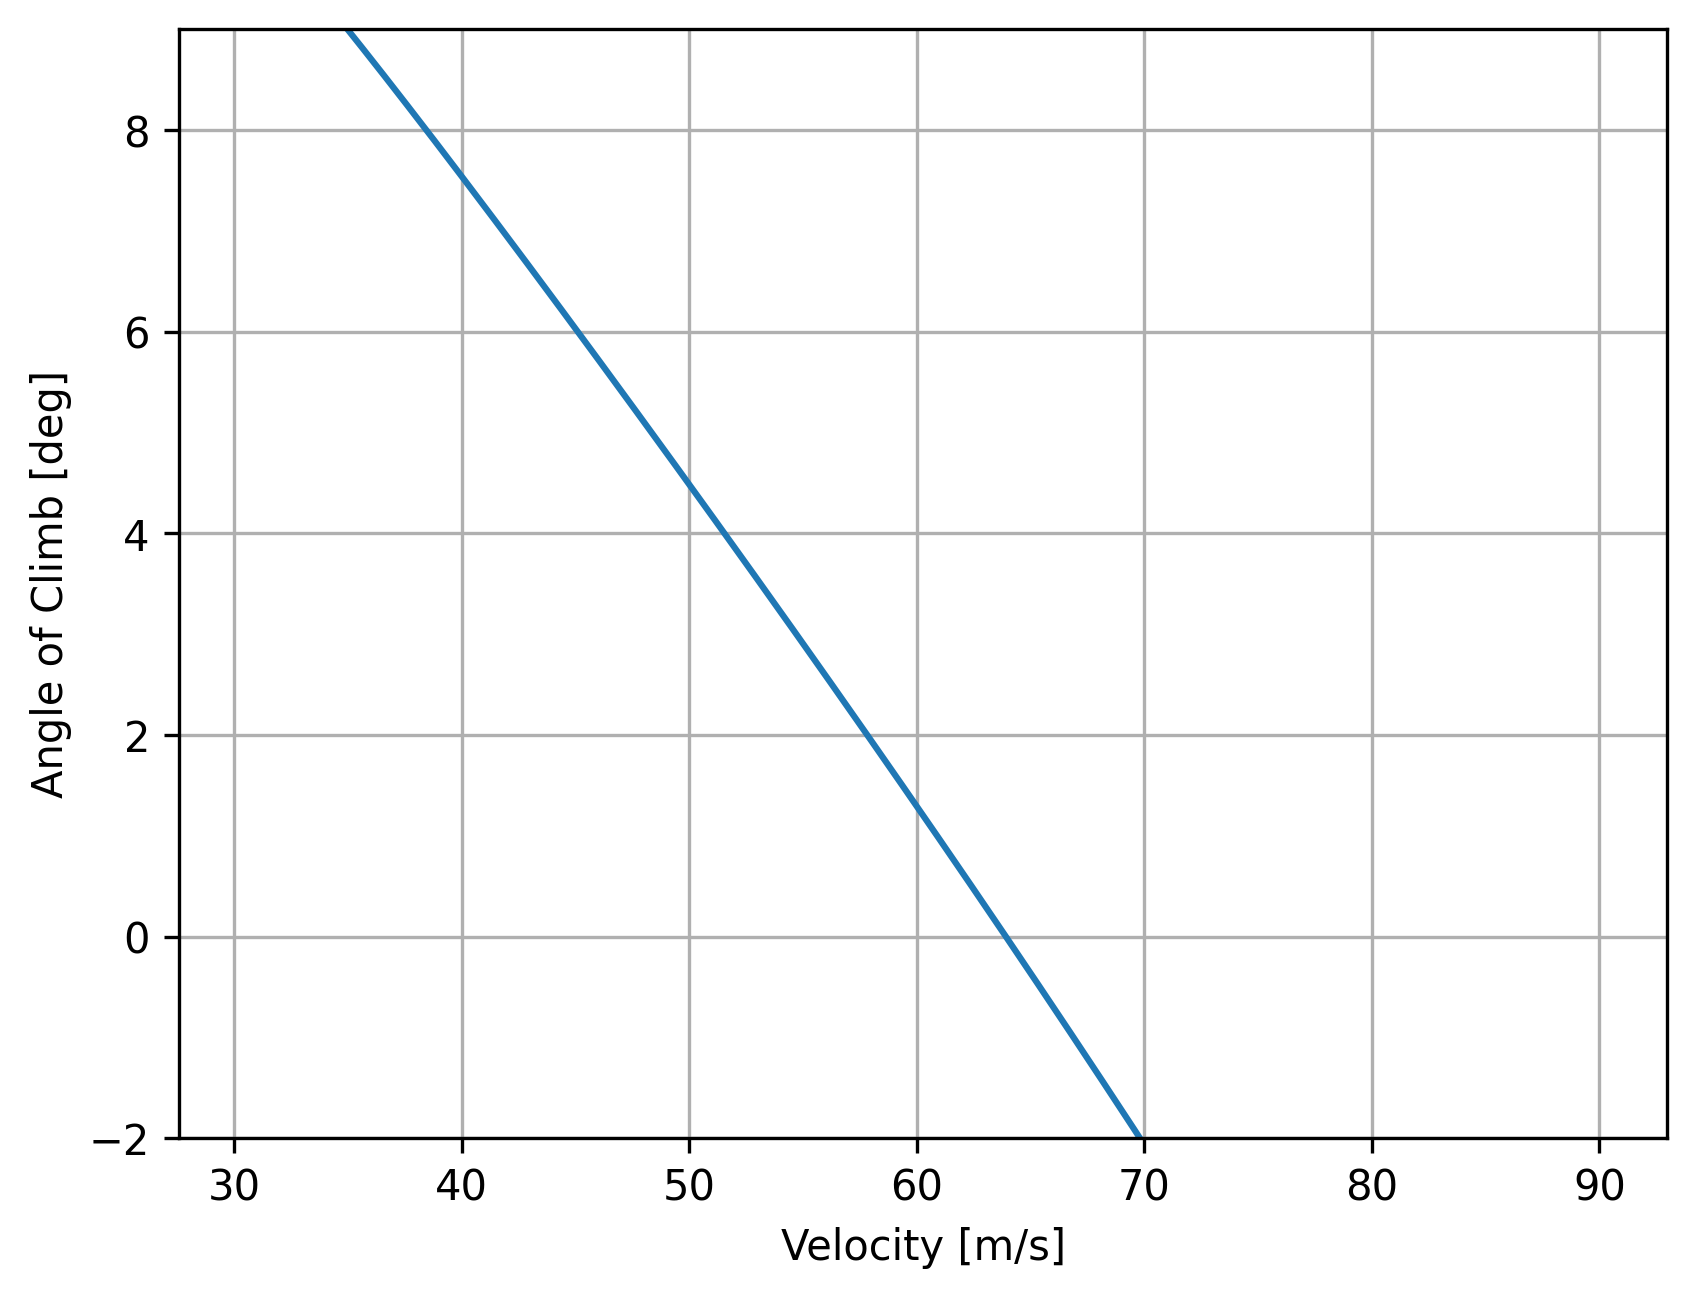
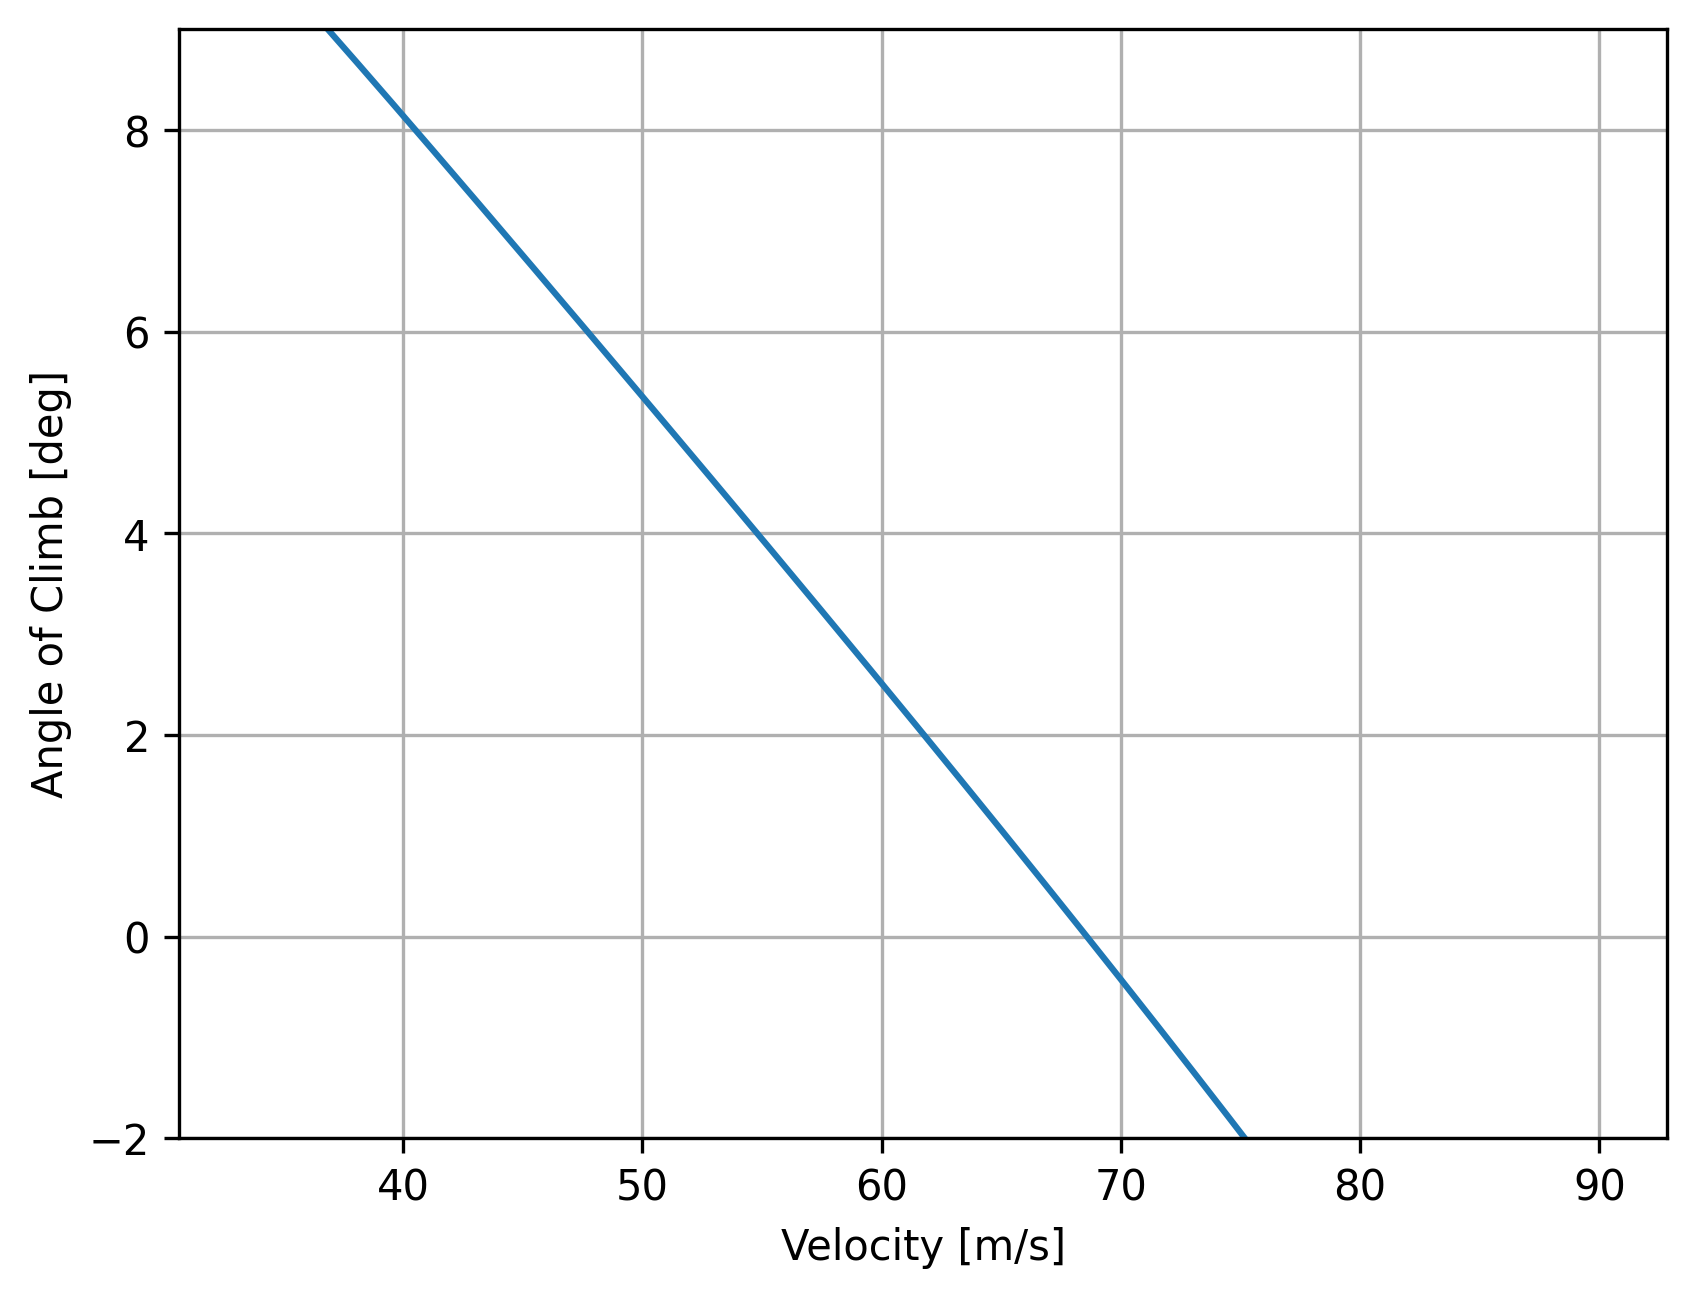
graphs for report

diff --git a/performance_diagrams/performance_diagrams.py b/performance_diagrams/performance_diagrams.py
@@ -46,7 +46,7 @@ def RoC_vs_V(excess_power, V, mtow):
     max_RoC = RoC[idx_max]
 
     # print(f"Velocity for maximum RoC: {V_max_RoC}")
-    # print(f"Maximum RoC: {max_RoC}")
+    print(f"Maximum RoC: {max_RoC}")
     save_path=Path(__file__).parent / "performance_figures/roc_v.png"
     plt.xlabel("Velocity [m/s]")
     plt.ylabel("Rate of Climb [m/s]")
@@ -328,21 +328,21 @@ if __name__ == '__main__':
 
     
     # ---- Design parameters ----
-    e = 0.747
+    e = 0.783
     AR = 9
     mtow = 1871 * 9.81  # [N]
 
     atmos_model = Atmosphere(alt, delta_T)
     rho_0 = atmos_model.density[0]
     
-    C_l_max = 1.44+0.287 #cruise
+    C_l_max = 1.44 #cruise
     S = 31.4
     n = 1
     # print(rho_0)
     # print(mtow)
     # print(S)
     # print(C_l_max)
-    cd0 = 0.0314
+    cd0 = 0.0259
     D_ft=5.675853 #propeller diameter
     V = np.linspace(1.3 * stall_speed(mtow, C_l_max, rho_0, S), 90, 1000)
     
